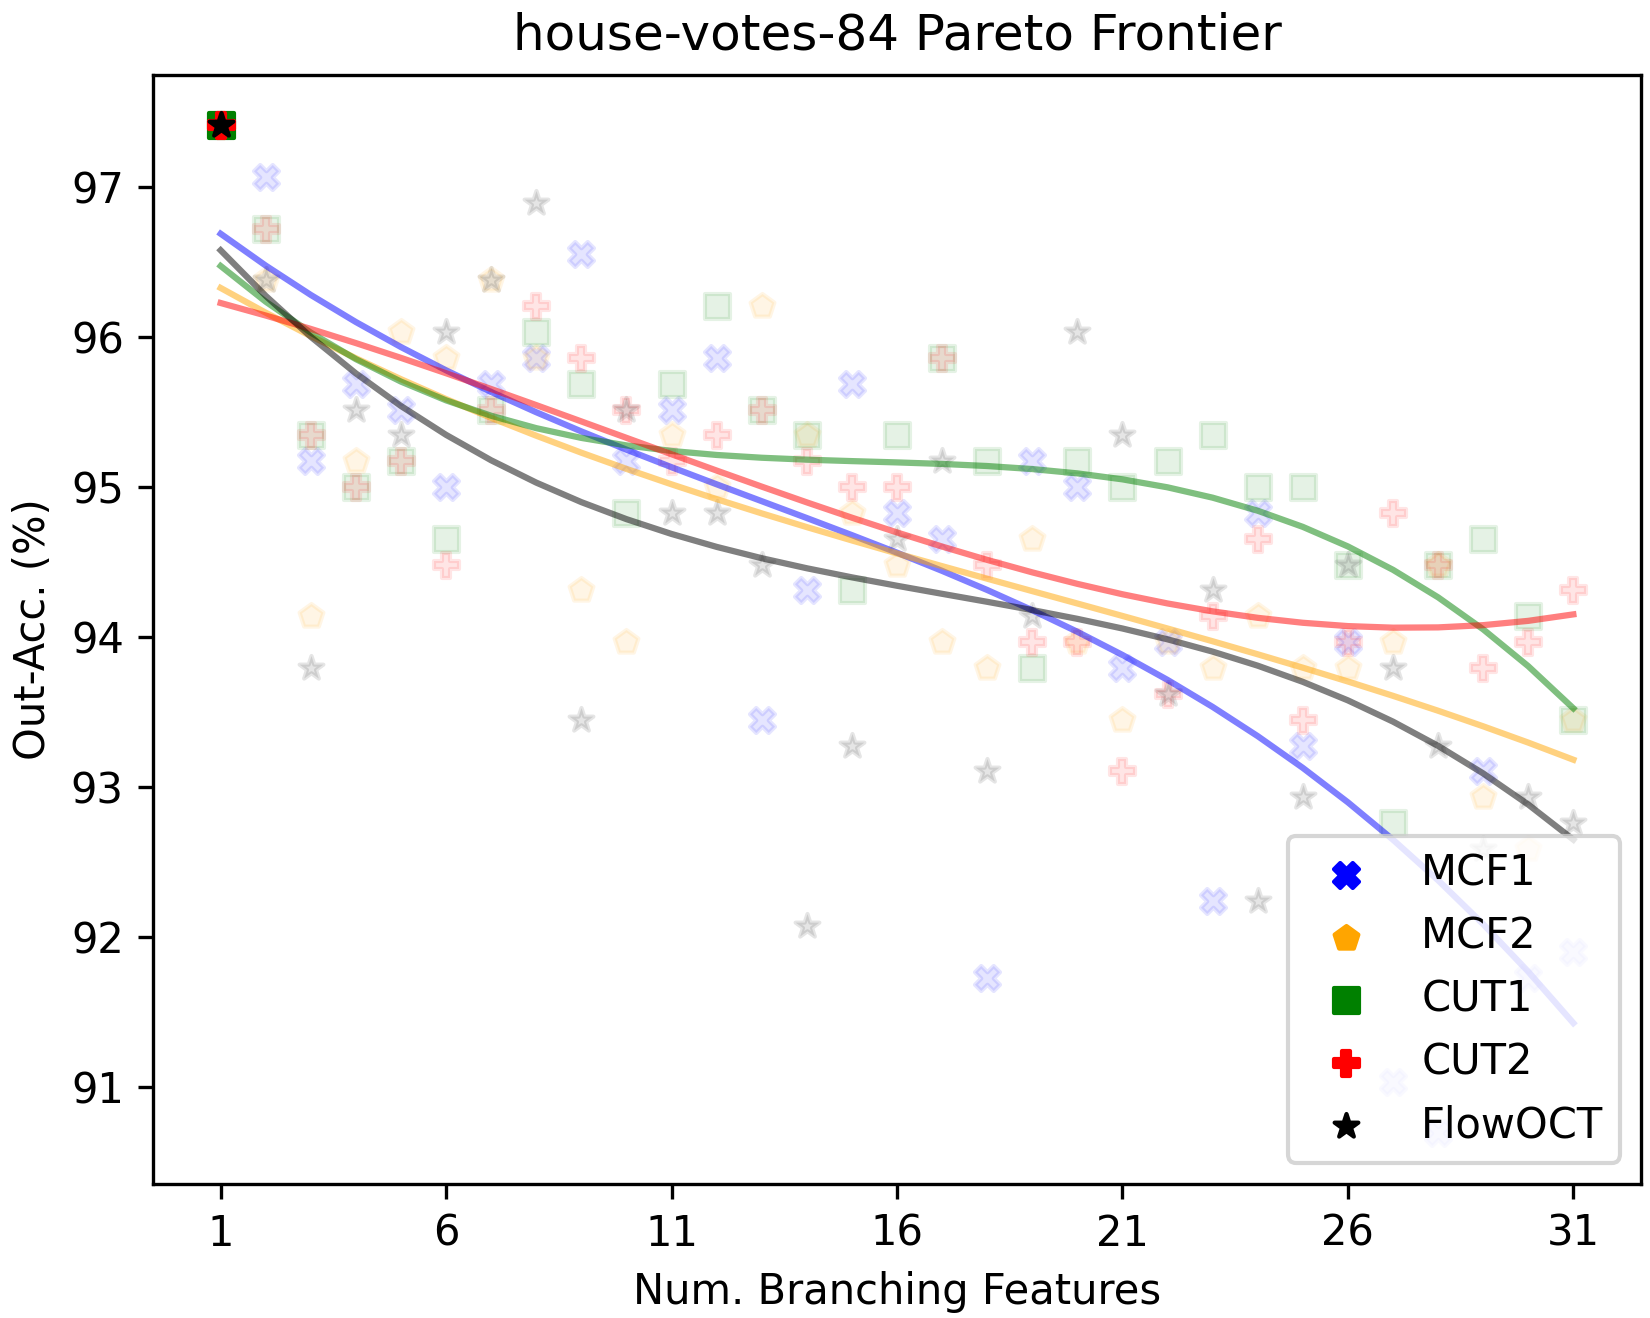
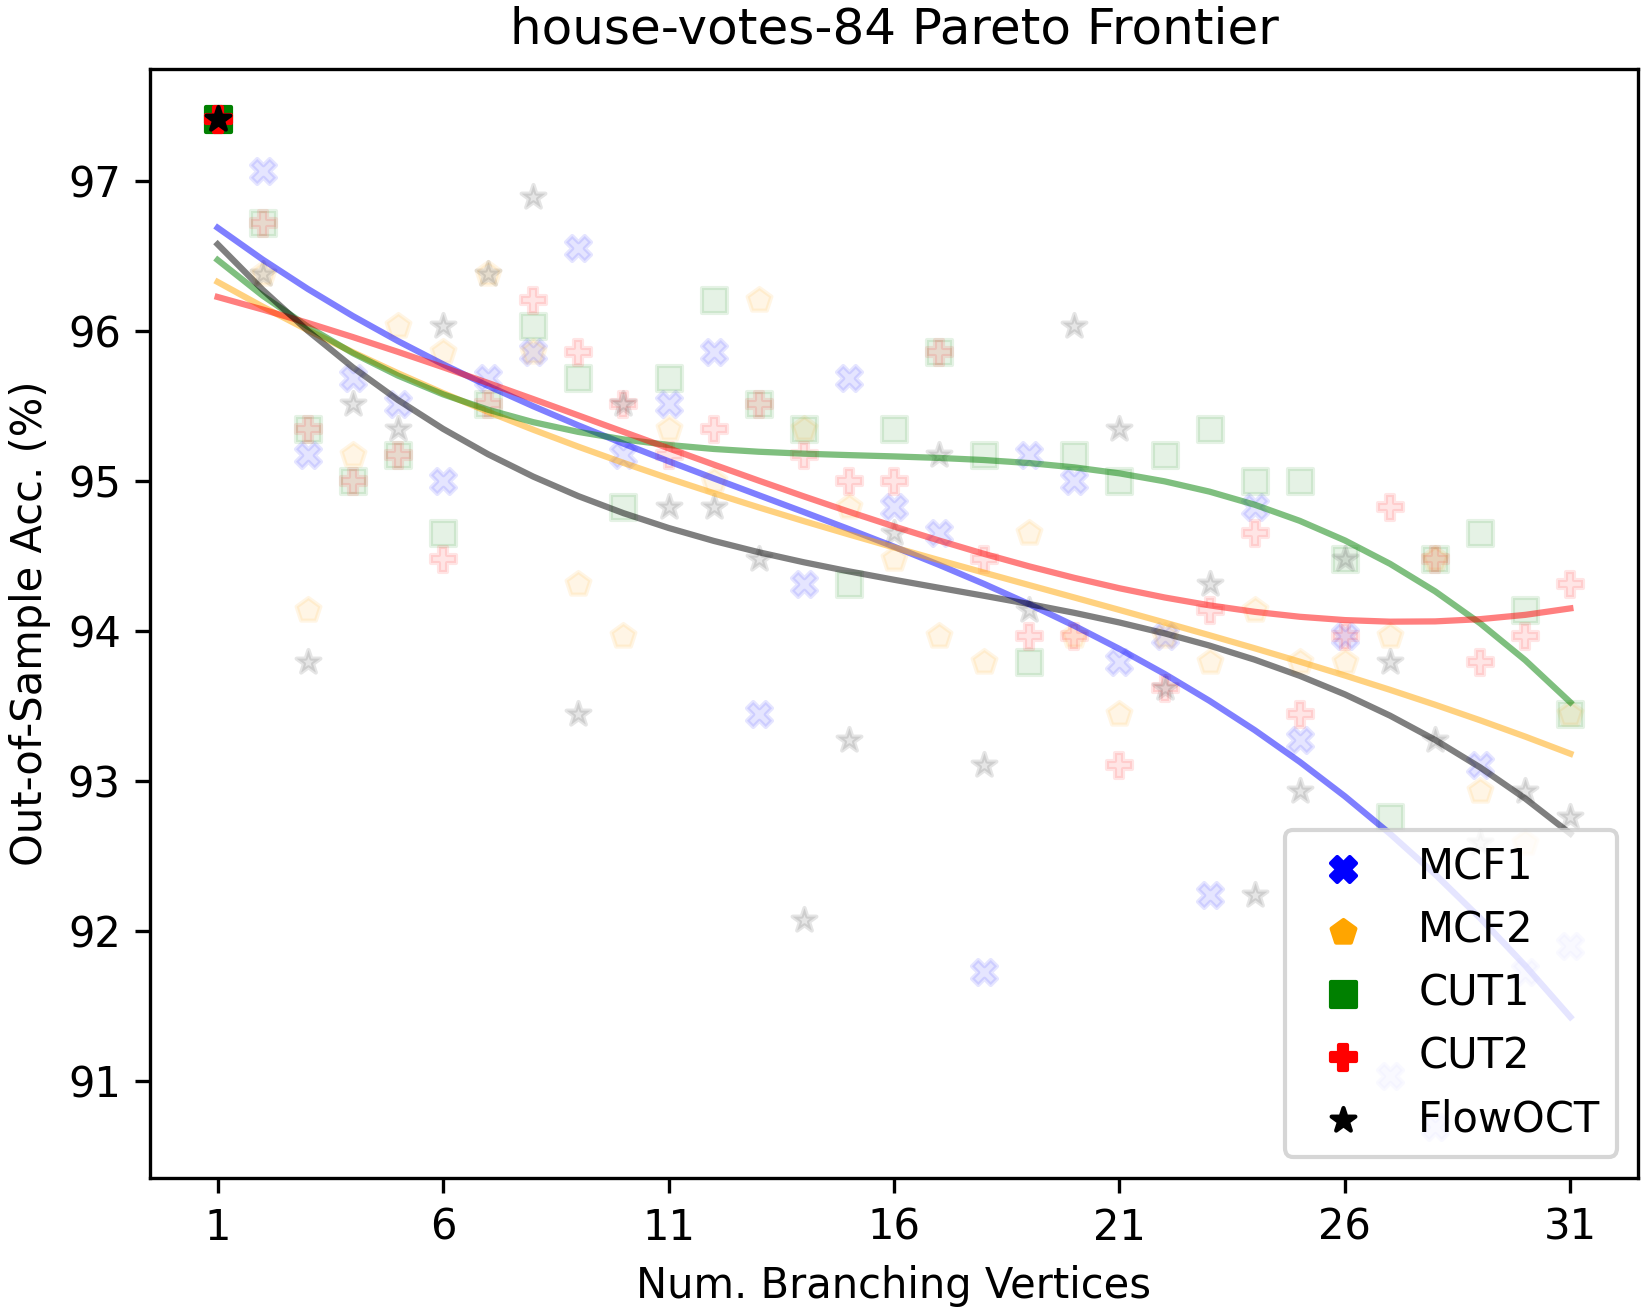
CODE

diff --git a/Code/RESULTS.py b/Code/RESULTS.py
@@ -111,10 +111,9 @@ def model_summary(opt_model, tree, test_set, rand_state, results_file, fig_file)
         results_writer.writerow(
             [opt_model.dataname, tree.height, len(opt_model.datapoints),
              test_acc / len(test_set), train_acc / len(opt_model.datapoints), opt_model.model.Runtime,
-             opt_model.model.MIPGap, opt_model.model.ObjVal,
+             opt_model.model.MIPGap, opt_model.model.ObjVal, opt_model.model.ObjBound, opt_model.modeltype,
              opt_model.model._numcb, opt_model.model._numcuts, opt_model.model._avgcuts,
              opt_model.model._cbtime, opt_model.model._mipsoltime, opt_model.model._mipnodetime, opt_model.eps,
-             opt_model.modeltype,
              opt_model.time_limit, rand_state, opt_model.fixed, opt_model.warmstart, opt_model.cc,
              opt_model.single_use, opt_model.level_tree, opt_model.max_features, opt_model.super_feature])
         results.close()
@@ -159,9 +158,9 @@ def pareto_plot(data):
                  p(data.loc[data['Model'] == model]['Max Features']),
                  color=colors[model], alpha=0.5)
         axs.legend(loc='lower right')
-        axs.set_xlabel('Num. Branching Features')
+        axs.set_xlabel('Num. Branching Vertices')
         axs.xaxis.set_ticks(np.arange(1, max(data['Max Features'].unique())+1, 5))
-        axs.set_ylabel('Out-Acc. (%)')
+        axs.set_ylabel('Out-of-Sample Acc. (%)')
         name = name.replace('_enc','')
         axs.set_title(f'{str(name)} Pareto Frontier')
     plt.savefig(os.getcwd() + '/results_figures/' + str(name) + ' H: '+ str(height)+' Pareto Frontier.png', dpi=300)

diff --git a/Code/TEST_CODE.py b/Code/TEST_CODE.py
@@ -1,26 +1,33 @@
 import model_runs
 import pareto_runs
 
-
+# '''
 # MODEL RUN EXAMPLE
 data_names = ['monk1_enc']
 heights = [2]
-models = ['FlowOCT', 'BendersOCT', 'MCF1', 'MCF2', 'CUT1', 'CUT2']
+models = ['MCF1']
 time_limit = 3600
-extras = ['fixing', 'max_features-15']
+extras = ['conflict_constraints']
 rand_states = [138]
 tuning = None
 file = 'results.csv'
+file = None
 plot_fig = False
-consol_log = True
+consol_log = False
 model_runs.main(
     ["-d", data_names, "-h", heights, "-m", models, "-t", time_limit, "-e", extras, "-r", rand_states, "-c", tuning,
      "-f", file, "-p", plot_fig, "-l", consol_log])
-
+extras = None
+model_runs.main(
+    ["-d", data_names, "-h", heights, "-m", models, "-t", time_limit, "-e", extras, "-r", rand_states, "-c", tuning,
+     "-f", file, "-p", plot_fig, "-l", consol_log])
+'''
 # PARETO FRONTIER EXAMPLE
 height = 5
 models = ['AGHA', 'MCF1', 'MCF2', 'CUT1', 'CUT2']
+models = []
 repeats = 5
-data_names = ['soybean-small_enc', 'monk1_enc']
+data_names = ['soybean-small_enc', 'monk1_enc', 'monk3_enc', 'house-votes-84_enc']
 file = 'pareto.csv'
 pareto_runs.main(["-d", data_names, "-h", height, "-m", models, "-t", 3600, "-r", repeats, "-f", file])
+'''

diff --git a/Code/OBCT.py b/Code/OBCT.py
@@ -486,7 +486,7 @@ class OBCT:
         if 'conflict_constraints' in self.modelextras:
             self.cc = True
             print('Adding conflict constraints')
-            conflict_constraints = self.model.addConstrs(self.model.Q[i, v] + self.model.B[self.tree.direct_ancestor[v], f] <= 1
+            conflict_constraints = self.model.addConstrs(self.Q[i, v] + self.B[self.tree.direct_ancestor[v], f] <= 1
                                                          for i in self.datapoints
                                                          for v in self.tree.B + self.tree.L if v != 0
                                                          for f in self.features if self.data.at[i, f] == (v % 2))
